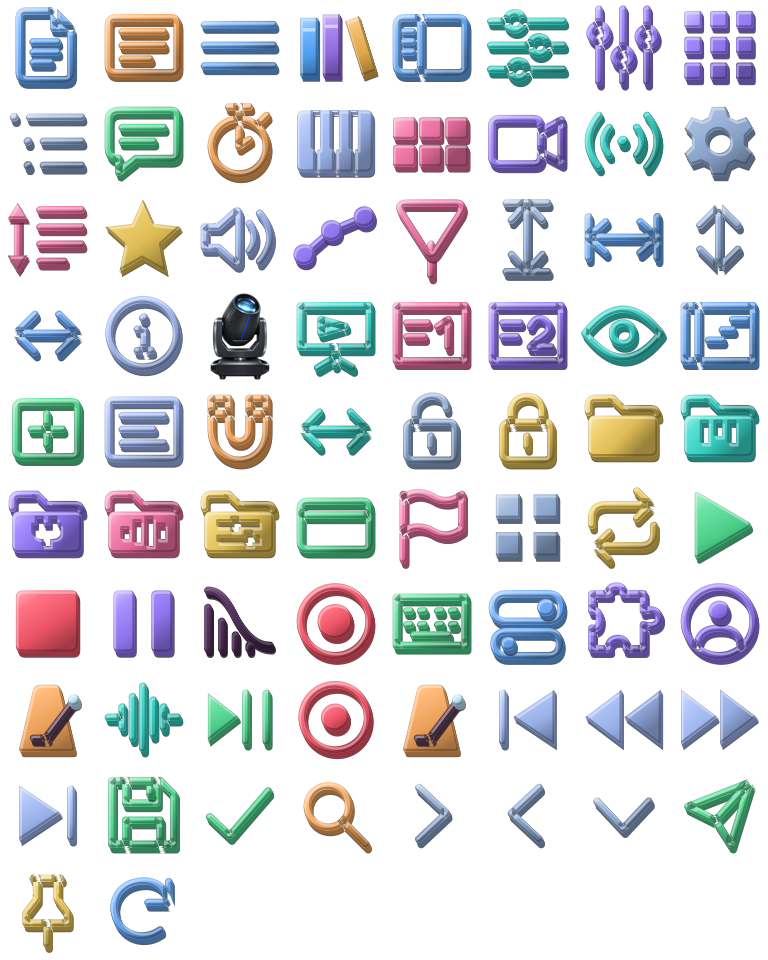
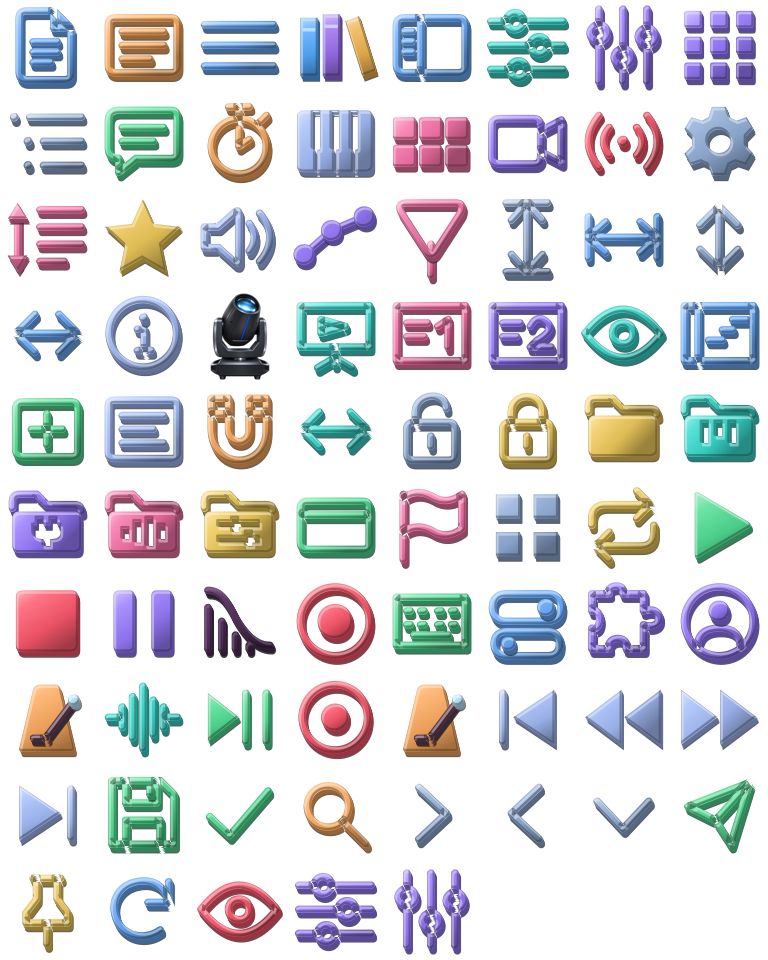
Show remote, preview and mixer toolbar states with dedicated PNG colors

Changed region(s): [[0.25, 0.9062, 0.625, 1.0], [0.75, 0.125, 0.875, 0.1875]]

diff --git a/JarasLive/scripts/generate-control-icons.swift b/JarasLive/scripts/generate-control-icons.swift
@@ -46,13 +46,13 @@ struct Material {
 
 let materials: [UInt32: [String]] = [
     0x6cafff: ["doc.text", "line.3.horizontal", "sidebar.left", "fitTime", "timelineZoomAxis", "midiPreview", "tabs.mappings", "refresh"],
-    0x39dbce: ["slider.horizontal.3", "dot.radiowaves.left.and.right", "library.instruments", "itemTimebase", "projection", "eye", "tabs.waveform"],
-    0x997cff: ["pause", "slider.vertical.3", "square.grid.3x3", "video", "automationLanes", "teleprompter2", "library.plugins", "tabs.plugins", "tabs.account"],
+    0x39dbce: ["slider.horizontal.3", "library.instruments", "itemTimebase", "projection", "eye", "tabs.waveform"],
+    0x997cff: ["pause", "trackMixer", "hozMixer", "slider.vertical.3", "square.grid.3x3", "video", "automationLanes", "teleprompter2", "library.plugins", "tabs.plugins", "tabs.account"],
     0xffad61: ["stopwatch", "magnet", "note.text", "fadeout", "metronome", "tabs.metronome", "search"],
     0x52df94: ["play", "addTrack", "tabs.transport", "text.bubble", "rectangle", "tabs.actions", "save", "check", "send"],
     0xf773a8: ["square.grid.3x2.fill", "flag", "library.samplers", "editCursor", "teleprompter1", "arrow.up.and.down.text.horizontal"],
     0xf1cc5c: ["folder.fill", "books.vertical", "library.presets", "star.fill", "loop", "lock", "pin"],
-    0xff5a6e: ["record", "tabs.record", "stopall"],
+    0xff5a6e: ["record", "tabs.record", "stopall", "preview", "dot.radiowaves.left.and.right"],
     0x93afd9: ["gearshape", "fitTracks", "trackHeightAxis", "list.bullet.indent", "square.grid.2x2", "unlock", "chevron.left", "chevron.right", "chevron.down"],
     0xa5befa: ["pianokeys", "speaker.wave.2", "timelineLanes", "info.circle", "projectStart", "previousTimelinePoint", "nextTimelinePoint", "projectEnd"],
 ]
@@ -60,10 +60,12 @@ let iconColors = Dictionary(uniqueKeysWithValues: materials.flatMap { color, nam
 let indicators: Set<String> = [
     "books.vertical", "sidebar.left", "slider.horizontal.3", "slider.vertical.3", "square.grid.3x3",
     "list.bullet.indent", "text.bubble", "stopwatch", "pianokeys", "square.grid.3x2.fill", "video",
-    "dot.radiowaves.left.and.right", "gearshape", "fitTracks", "fitTime", "info.circle",
+    "gearshape", "fitTracks", "fitTime", "info.circle",
     "projection", "teleprompter1", "teleprompter2", "eye", "midiPreview", "timelineLanes",
     "magnet", "itemTimebase"
 ]
+
+let toolbarStatusIcons: Set<String> = ["preview", "dot.radiowaves.left.and.right", "trackMixer", "hozMixer"]
 
 func stroke(_ path: CGPath, width: CGFloat) -> CGPath {
     path.copy(strokingWithWidth: width, lineCap: .round, lineJoin: .round, miterLimit: 2)
@@ -112,7 +114,7 @@ func paintMaterial(_ context: CGContext, _ shape: CGPath, _ material: Material, 
 func renderSymbol(_ context: CGContext, name: String, outline: CGPath, filled: CGPath, active: Bool) {
     let darkInk = name == "fadeout" ||
         (active && ["pause", "editCursor", "automationLanes", "lock", "loop", "record", "stopall", "metronome", "save"].contains(name))
-    var color = iconColors[name, default: 0x90adcf]
+    var color = active && toolbarStatusIcons.contains(name) ? 0x54ed87 : iconColors[name, default: 0x90adcf]
     if darkInk {
         switch name {
         case "record": color = 0x681827

diff --git a/JarasLive/Apple/Shared/DAWRemoteView.swift b/JarasLive/Apple/Shared/DAWRemoteView.swift
@@ -2129,7 +2129,7 @@ private struct TrackMixFeedbackPanel: View {
                     Button("Exit Remote", action: exitRemote)
                 } label: { Image(systemName: "line.3.horizontal").frame(width: 44, height: 44).contentShape(Rectangle()) }
                     .accessibilityLabel("Menu")
-                phonePanelButton(.mixer, title: "Track Mixer", icon: "slider.horizontal.3")
+                phonePanelButton(.mixer, title: "Track Mixer", icon: "trackMixer")
                 phonePanelButton(.setlist, title: "Setlist", icon: "list.bullet.indent")
                 phonePanelButton(.grid, title: "Grid", icon: "square.grid.3x3")
                 phonePanelButton(.sections, title: "Parts")
@@ -2524,7 +2524,7 @@ private struct TrackMixFeedbackPanel: View {
                     Button { withAnimation(nil) {
                         toggleMainTrackMixer()
                     } } label: {
-                        ControlIcon(name: "slider.horizontal.3", active: prompterPanel == nil && !mixerCollapsed)
+                        ControlIcon(name: "trackMixer", active: prompterPanel == nil && !mixerCollapsed)
                             .font(.jarasSystem(size: 15, weight: .semibold))
                             .foregroundStyle(JarasTheme.toolbarTint(active: prompterPanel == nil && !mixerCollapsed))
                             .frame(width: railButton, height: 32).contentShape(Rectangle())
@@ -2533,7 +2533,7 @@ private struct TrackMixFeedbackPanel: View {
                         .accessibilityValue(prompterPanel != nil || mixerCollapsed ? "Hidden" : "Shown")
                     if let toggleHozMixer {
                         Button(action: toggleHozMixer) {
-                            ControlIcon(name: "slider.vertical.3", active: hozMixerOpen)
+                            ControlIcon(name: "hozMixer", active: hozMixerOpen)
                                 .frame(width: railButton, height: 32).contentShape(Rectangle())
                         }.buttonStyle(RemoteFullAreaButtonStyle(surface: true))
                             .foregroundStyle(JarasTheme.toolbarTint(active: hozMixerOpen))
@@ -9518,11 +9518,11 @@ private struct IpadPreviewButton: View {
     var body: some View {
         Button(action: toggle) {
             Group {
-                if horizontal { ControlIcon(name: "eye", active: active) }
+                if horizontal { ControlIcon(name: "preview", active: active) }
                 else { Text(verbatim: "P\nR\nE\nV\nI\nE\nW") }
             }
                 .font(.jarasSystem(size: 10, weight: .heavy)).multilineTextAlignment(.center)
-                .foregroundStyle(JarasTheme.toolbarTint(active: active)).frame(width: width, height: horizontal ? 28 : 108)
+                .foregroundStyle(active ? JarasTheme.green : JarasTheme.liveOffRed).frame(width: width, height: horizontal ? 28 : 108)
                 .modifier(RemoteControlSurface(radius: 5))
                 .contentShape(Rectangle())
         }.buttonStyle(.plain).accessibilityLabel("Preview")

diff --git a/JarasLive/Tests/Application/TempoMarkerTests.swift b/JarasLive/Tests/Application/TempoMarkerTests.swift
@@ -744,8 +744,9 @@ final class TempoMarkerTests: XCTestCase {
         XCTAssertEqual(TimelineTempo.snap(1.24, song: song, pixelsPerSecond: 60,
             enabled: false, maximumDistancePixels: 8), 1.24, accuracy: 0.000001)
         song.beatsPerBar = 7; song.beatUnit = 8; song.timeSettings?.divisions = 8
-        let ticks = TimelineTimeRuler.ticks(in: song.tempoSections(until: 20), from: 0, to: 10,
-            pixelsPerSecond: 40, divisions: 8, labels: false).map(\.time)
+        let sections = song.tempoSections(until: song.timelineScrollEnd)
+        let ticks = TimelineTimeRuler.ticks(in: sections, from: 0, to: 10, pixelsPerSecond: 40,
+            divisions: 8, labels: false, musical: .init(sections: sections)).map(\.time)
         for time in stride(from: 0.01, through: 9.9, by: 0.037) {
             let snapped = TimelineTempo.snap(time, song: song, pixelsPerSecond: 40, maximumDistancePixels: 8)
             XCTAssertTrue(ticks.contains { abs($0 - snapped) < 0.000001 }, "item must land on a drawn line")

diff --git a/JarasLive/Apple/Shared/MainView.swift b/JarasLive/Apple/Shared/MainView.swift
@@ -853,13 +853,13 @@ struct MainView: View {
             .accessibilityIdentifier("workspace-focus").help(Text(verbatim: "Track - I"))
         }
         Button(action: toggleMixer) {
-            toolbarLabel("Track Mixer", "slider.horizontal.3", active: mixerWidth > 0)
+            toolbarLabel("Track Mixer", "trackMixer", active: mixerWidth > 0)
         }
         .accessibilityLabel(mixerWidth <= 0 ? "Expandir Track-Mixer" : "Recolher Track-Mixer").help(Text("Track Mixer"))
 
         if desktopExtras {
             Button(action: toggleBarMixer) {
-                toolbarLabel("Hoz Mixer", "slider.vertical.3", active: footerMixerOpen || detachedMixer.isVisible)
+                toolbarLabel("Hoz Mixer", "hozMixer", active: footerMixerOpen || detachedMixer.isVisible)
             }
             .accessibilityLabel("Hoz-Mixer").help(Text("Hoz Mixer"))
 

diff --git a/JarasLive/Tests/Apple/TimelineZoomGridAnchorTests.swift b/JarasLive/Tests/Apple/TimelineZoomGridAnchorTests.swift
@@ -28,7 +28,7 @@ for density: CGFloat in [1, 2] {
                 ruler.update(TimelineNativeRuler(viewport: CGRect(x: tile, y: 0, width: 1200, height: 80),
                     displayScale: density, barTop: 48, numberLaneHeight: 16,
                     ticks: [.init(x: anchor, primary: true, text: "1.1"), .init(x: (anchorTime + 2) * scale, primary: true, text: "1.2")],
-                    rows: [], background: black, lineColor: white))
+                    rows: [], background: black, lineColor: white, gridColor: white, showsGrid: false))
                 let gridPath = (grid.layer!.sublayers![1] as! CAShapeLayer).path!
                 let rulerPath = (ruler.layer!.sublayers!.first { $0.name == "timelineTicks" } as! CAShapeLayer).path!
                 let g = vertices(gridPath).map { $0.x + tile - offset }

diff --git a/JarasLive/Apple/Shared/TeleprompterWindow.swift b/JarasLive/Apple/Shared/TeleprompterWindow.swift
@@ -626,7 +626,7 @@ struct TeleprompterPreviewButton: View {
     @State private var choosingPage = false
     var body: some View {
         Button { controller.togglePreview() } label: {
-            DesktopToolbarLabel(title: "Preview", systemImage: "eye", tone: controller.previewActive ? .live : .neutral)
+            DesktopToolbarLabel(title: "Preview", systemImage: "preview", tone: controller.previewActive ? .live : .neutral)
         }.buttonStyle(.plain)
             .overlay(TeleprompterRightClick(action: { choosingPage = true }))
             .help(Text("Preview"))

diff --git a/JarasLive/AndroidRemote/app/src/main/java/com/hookdeveloper/catlive/remote/MainActivity.java b/JarasLive/AndroidRemote/app/src/main/java/com/hookdeveloper/catlive/remote/MainActivity.java
@@ -245,7 +245,7 @@ public final class MainActivity extends Activity implements RemoteSession.Listen
             rail.removeAllViews();rail.setPadding(0,0,0,0);
             for(String key:new String[]{"menu","mixer","parts","vinhetas","TP1","TP2","notices","clock","preview","setlist","grid"}){
                 Button button=railButtons.get(key);if(button==null)continue;
-                if(key.equals("preview")){button.setText("PREVIEW");button.getLayoutParams().width=dp(58);button.getLayoutParams().height=dp(28);}
+                if(key.equals("preview")){button.icon("preview","Preview");button.getLayoutParams().width=dp(58);button.getLayoutParams().height=dp(28);}
                 rail.addView(button);
             }
             LinearLayout toolbar=row(this);toolbar.setGravity(Gravity.CENTER_VERTICAL);toolbar.setBackground(RemoteWidgets.panel(0));
@@ -473,7 +473,7 @@ public final class MainActivity extends Activity implements RemoteSession.Listen
                 case "save" -> state.optBoolean("saving");
                 default -> key.equals(panel);
             };
-            entry.getValue().style(selected ? GREEN : TOOLBAR_INACTIVE, selected);
+            entry.getValue().style(selected ? GREEN : key.equals("preview") ? RED : TOOLBAR_INACTIVE, selected);
         }
         refreshFadeout();
     }

diff --git a/JarasLive/AndroidRemote/app/src/main/java/com/hookdeveloper/catlive/remote/RemoteWidgets.java b/JarasLive/AndroidRemote/app/src/main/java/com/hookdeveloper/catlive/remote/RemoteWidgets.java
@@ -51,7 +51,7 @@ final class RemoteWidgets {
             case "chevron" -> "chevron.right";
             case "hide" -> "chevron.left";
             case "menu" -> "line.3.horizontal";
-            case "mixer" -> "slider.horizontal.3";
+            case "mixer" -> "trackMixer";
             case "setlist", "parts" -> "list.bullet.indent";
             case "vinhetas" -> "square.grid.3x2.fill";
             case "folder" -> "folder.fill";
@@ -61,7 +61,7 @@ final class RemoteWidgets {
             case "settings" -> "gearshape";
             case "stop" -> "stopall";
             case "repeat" -> "loop";
-            case "computer", "preview" -> "projection";
+            case "computer" -> "projection";
             default -> key;
         };
         Integer index = controlNames.get(name);
